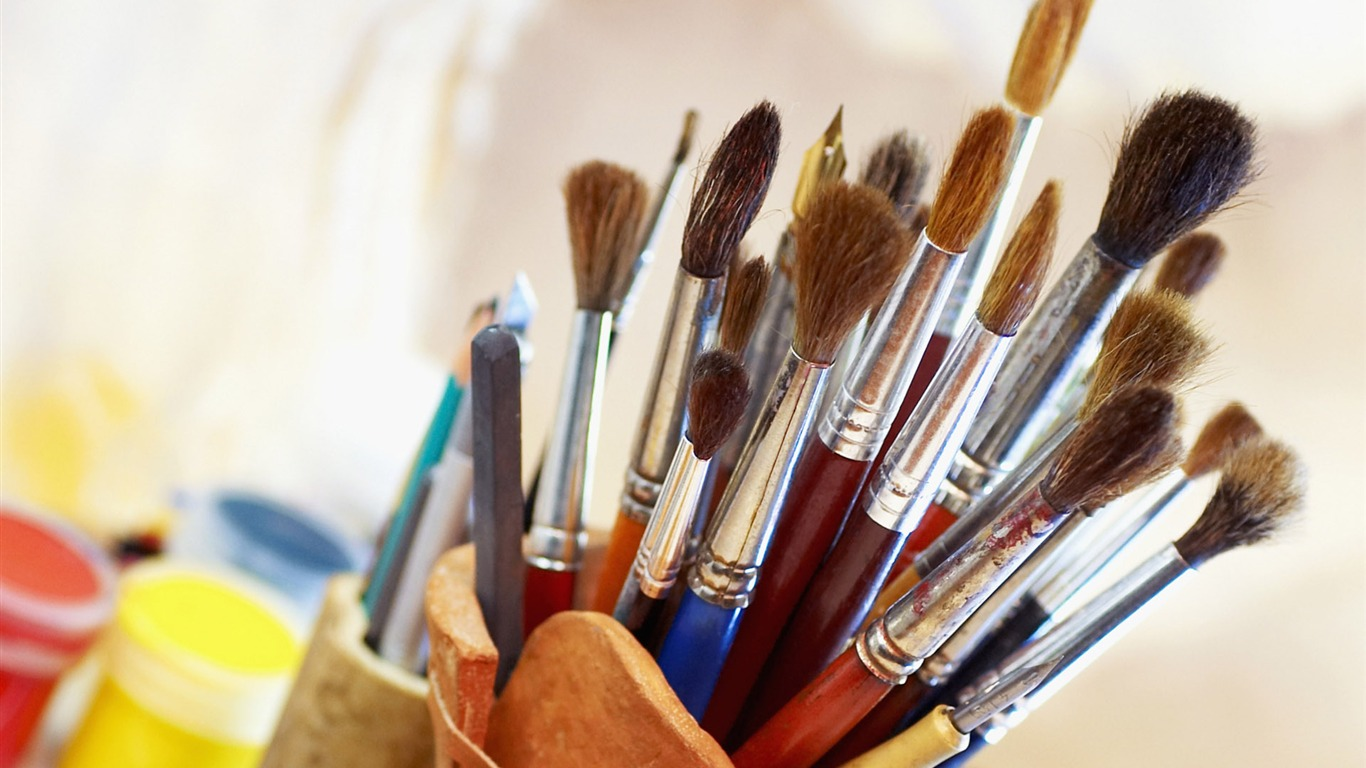
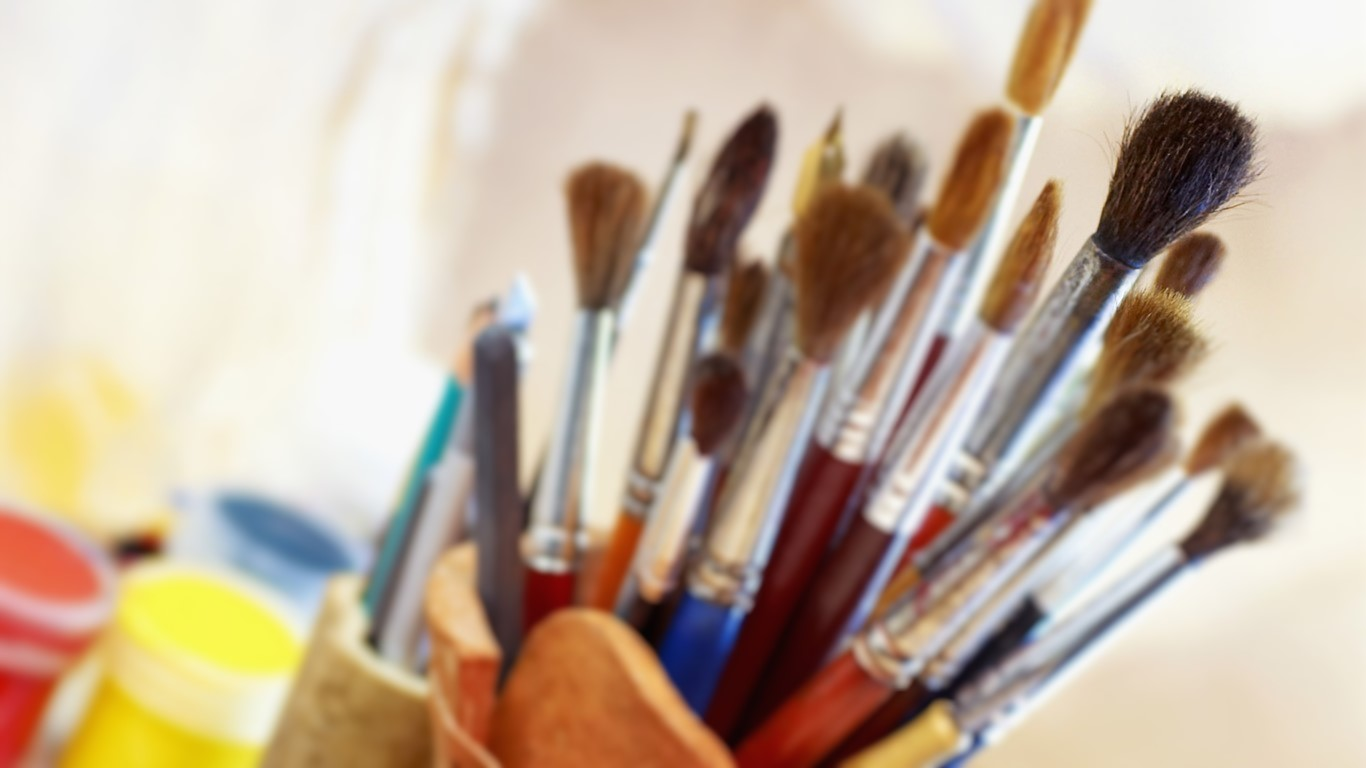
Se acomodo la imagen del fondo, y categorias del nav

diff --git a/home.html b/home.html
@@ -38,17 +38,18 @@
       <div class="collapse navbar-collapse" id="bs-example-navbar-collapse-1">
         <ul class="nav navbar-nav">
           <li><a id="quienessomos">Quienes Somos</a></li>
+          <li><a id="artistica" >Materiales de artistica</a></li>
           <li><a id="articulose" >Articulos Escolares</a></li>
           <li><a id="articuloso" >Articulos de Oficina</a></li>
           <li><a id="contacto" >Contacto</a></li>
           <li class="dropdown">
             <a href="#" class="dropdown-toggle" data-toggle="dropdown" role="button" aria-haspopup="true" aria-expanded="false">Ofertas <span class="caret"></span></a>
             <ul class="dropdown-menu">
-              <li><a id="acuarelas" href="#pofacuarelas">Acuarelas</a></li>
-              <li><a id="acrilicos" href="#pofacrilicos">Acrilicos</a></li>
-              <li><a id="pinceles" href="#pofpinceles">Pinceles</a></li>
+              <li><a id="acuarelas" href="#pofacuarelas">Kit Escolar</a></li>
+              <li><a id="acrilicos" href="#pofacrilicos">Kit de dibujo</a></li>
+              <li><a id="pinceles" href="#pofpinceles">kit de pinturas</a></li>
               <li role="separator" class="divider"></li>
-              <li><a id="combo" href="#pcombo">Combo</a></li>
+              <li><a id="combo" href="#pcombo">Destacadon de la Semana</a></li>
               </ul>
           </li>
         </ul>

diff --git a/js/comportamiento.js b/js/comportamiento.js
@@ -28,6 +28,7 @@ CargarAjax("html/carousel.html");
   }
 
   $("#quienessomos").on("click", function(){ CargarAjax("../html/nosotros.html")});
+  $("#artistica").on("click", function(){CargarAjax("../html/materialesartistica.html")});
   $("#articulose").on("click", function(){CargarAjax("../html/articulose.html")});
   $("#articuloso").on("click", function(){CargarAjax("../html/articuloso.html")});
   $("#contacto").on("click", function(){CargarAjax("../html/contacto.html")});

diff --git a/css/estilo.css b/css/estilo.css
@@ -9,7 +9,7 @@
   -moz-background-size: cover;
   -o-background-size: cover;
   background-size: cover;
-  opacity: 0.8;
+
 
 }
 

diff --git a/html/materialesartistica.html b/html/materialesartistica.html
@@ -1,0 +1,3 @@
+
+
+<h1>materiales de artistica</h1>
